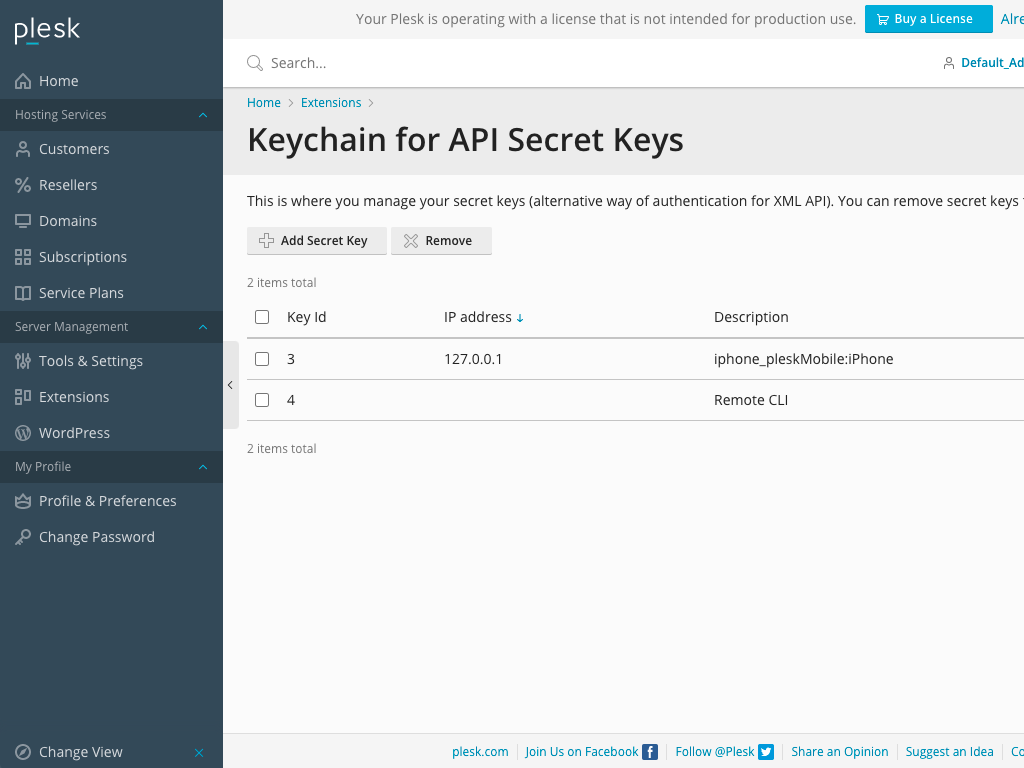
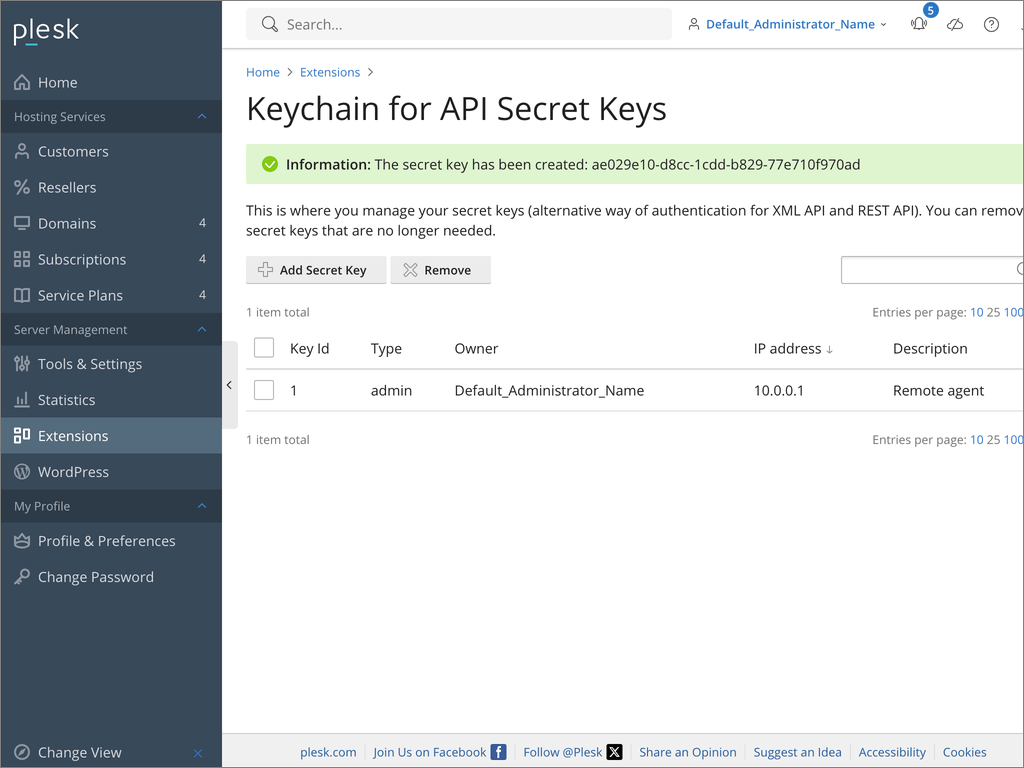
TECH Update the screenshot to reflect recent features

diff --git a/README.md b/README.md
@@ -4,4 +4,4 @@
 
 The extension retrieves and displays a list of secret keys, and also provides an ability to remove secret keys that are no longer needed.
 
-![Screenshot](https://raw.githubusercontent.com/plesk/ext-secret-keys-manager/master/src/_meta/screenshots/1.png)
+<img src="src/_meta/screenshots/1.png" alt="List of secret keys shown in the extension" width="600">
